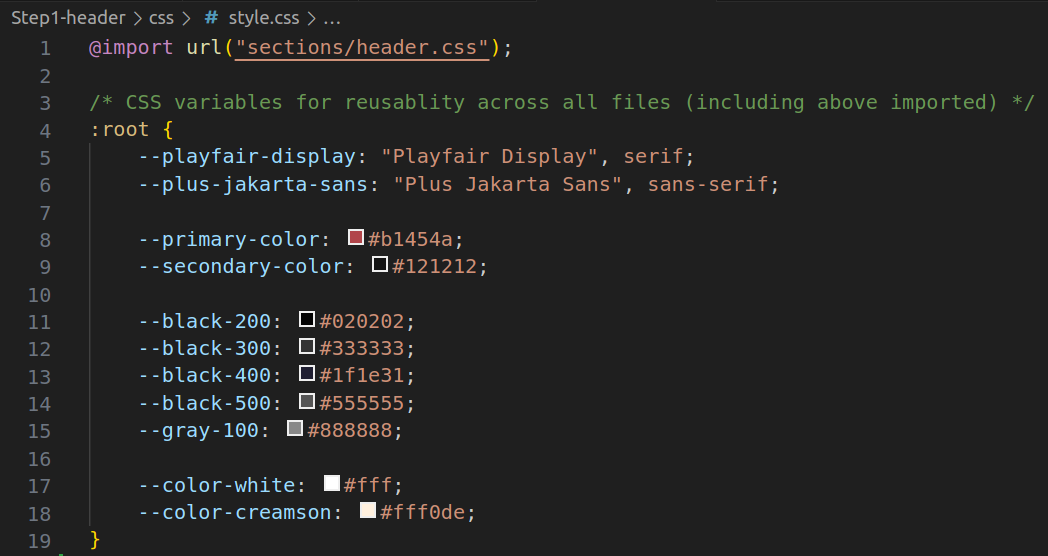
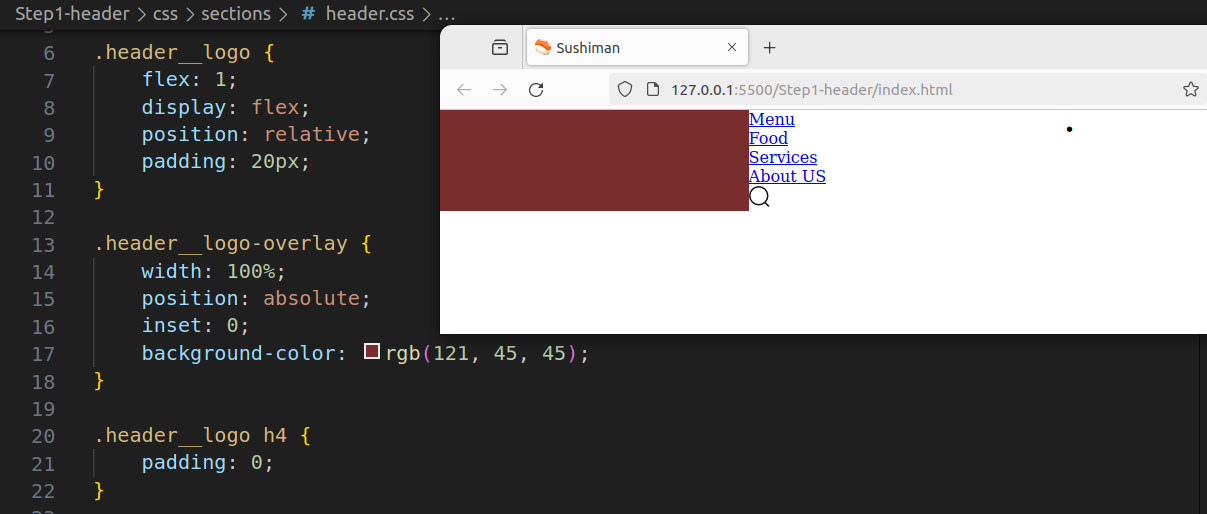
Step1-header

diff --git a/Step1-header/css/sections/header.css b/Step1-header/css/sections/header.css
@@ -14,7 +14,8 @@
     width: 100%;
     position: absolute;
     inset: 0;
-    background-color: rgb(121, 45, 45);
+    /* background-color: rgb(121, 45, 45); */
+    background-color: var(--primary-color);
 }
 
 .header__logo h4 {

diff --git a/Step1-header/README.md b/Step1-header/README.md
@@ -67,13 +67,7 @@
 ### position: absolute; inside position: relative;
 ### outer div .header__logo has display:flex; and overlay has width:100%.
 
-
----------------------------------------------------------
-![step1-11](https://github.com/fatmakhaledosman/Sushi-Themed-Website-step-by-step/blob/main/Step1-header/images-readme-file/img1-11.png)
-#### class of flex:1; means that it will expand however long it needs to. the sushiman is on the left side and the menu is on the right side.
-
-![step1-12](https://github.com/fatmakhaledosman/Sushi-Themed-Website-step-by-step/blob/main/Step1-header/images-readme-file/img1-12.png)
-#### position:absolute; means that it will not be bound to other elements on the page it will be absolutely positioned.
+![step1-14]()
 ```
 background-color: rgb(121,45,45);
 ```
@@ -86,25 +80,26 @@ background-color: rgb(121,45,45);
 --primary-color: #b1454a;
 --secondary-color: #121212;
 ```
+![step1-15]()
 
-![step1-13](https://github.com/fatmakhaledosman/Sushi-Themed-Website-step-by-step/blob/main/Step1-header/images-readme-file/img1-13.png)
-#### Add instance :root{},this allows us to create CSS variables, we can reuse them across all files by using the name of css variable later.
 
-#### in css/sections/header file, use:
-```
-background-color:var(--primary-color);
-```
-#### This is powerful because you do not have to remember the actual hexadecimal color code.
-![step1-14](https://github.com/fatmakhaledosman/Sushi-Themed-Website-step-by-step/blob/main/Step1-header/images-readme-file/img1-14.png)
 
-![step1-15](https://github.com/fatmakhaledosman/Sushi-Themed-Website-step-by-step/blob/main/Step1-header/images-readme-file/img1-15.png)
 
-![step1-16](https://github.com/fatmakhaledosman/Sushi-Themed-Website-step-by-step/blob/main/Step1-header/images-readme-file/img1-16.png)
 
-![step1-17](https://github.com/fatmakhaledosman/Sushi-Themed-Website-step-by-step/blob/main/Step1-header/images-readme-file/img1-17.png)
 
-![step1-18](https://github.com/fatmakhaledosman/Sushi-Themed-Website-step-by-step/blob/main/Step1-header/images-readme-file/img1-18.png)
 
+
+
+
+
+
+
+
+
+
+
+
+-------------------------------------------------------------
 #### Add starter css file in style.css
 #### you can get it from that link https://gist.github.com/adrianhajdin/cad20aad1fefa9163a449e8feb91b602
 ![step1-19](https://github.com/fatmakhaledosman/Sushi-Themed-Website-step-by-step/blob/main/Step1-header/images-readme-file/img1-19.png)
